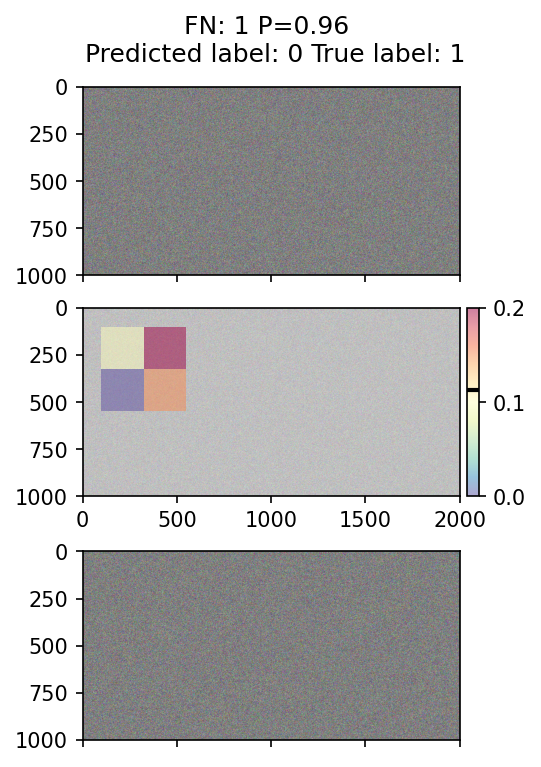
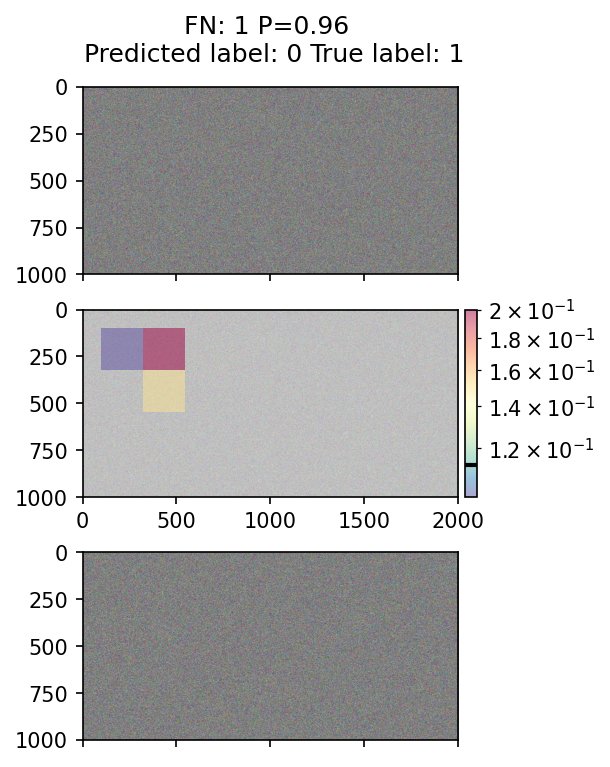
wip log scale

Changed region(s): [[0.0296, 0.0, 0.976, 0.6897], [0.0296, 0.6897, 0.8577, 0.9896], [0.9168, 0.6297, 0.976, 0.6597]]

diff --git a/hi-ml-cpath/src/health_cpath/utils/viz_utils.py b/hi-ml-cpath/src/health_cpath/utils/viz_utils.py
@@ -17,6 +17,7 @@ from math import ceil
 from pathlib import Path
 from typing import Sequence, List, Any, Dict, Optional, Union, Tuple
 
+from matplotlib.colors import LogNorm
 from monai.data.dataset import Dataset
 from torch.utils.data import DataLoader
 from health_cpath.datasets.panda_dataset import PandaDataset
@@ -229,7 +230,8 @@ def plot_heatmap_overlay(
     rects = [patches.Rectangle(xy, tile_size, tile_size) for xy in zip(tile_xs, tile_ys)]
 
     # line width is set to 0 to avoid the black border around the tiles as the tiles are already colored
-    pc = collection.PatchCollection(rects, match_original=True, cmap=cmap, alpha=0.5, linewidth=0)
+    pc = collection.PatchCollection(rects, match_original=True, cmap=cmap, alpha=0.5, linewidth=0,
+                                    norm=LogNorm())
     pc.set_array(np.array(attentions))
     ax1.add_collection(pc)
     cb = plt.colorbar(pc, cax=cax)  # add colorbar to the right of the plot (cax)

diff --git a/hi-ml-cpath/testhisto/testhisto/utils/test_viz_utils.py b/hi-ml-cpath/testhisto/testhisto/utils/test_viz_utils.py
@@ -288,7 +288,7 @@ def test_plot_heatmap_overlay(add_extra_slide_plot: bool, test_output_dirs: Outp
     assert file.exists()
     expected = full_ml_test_data_path("histo_heatmaps") / filename
     # To update the stored results, uncomment this line:
-    # expected.write_bytes(file.read_bytes())
+    expected.write_bytes(file.read_bytes())
     assert_binary_files_match(file, expected)
 
 
